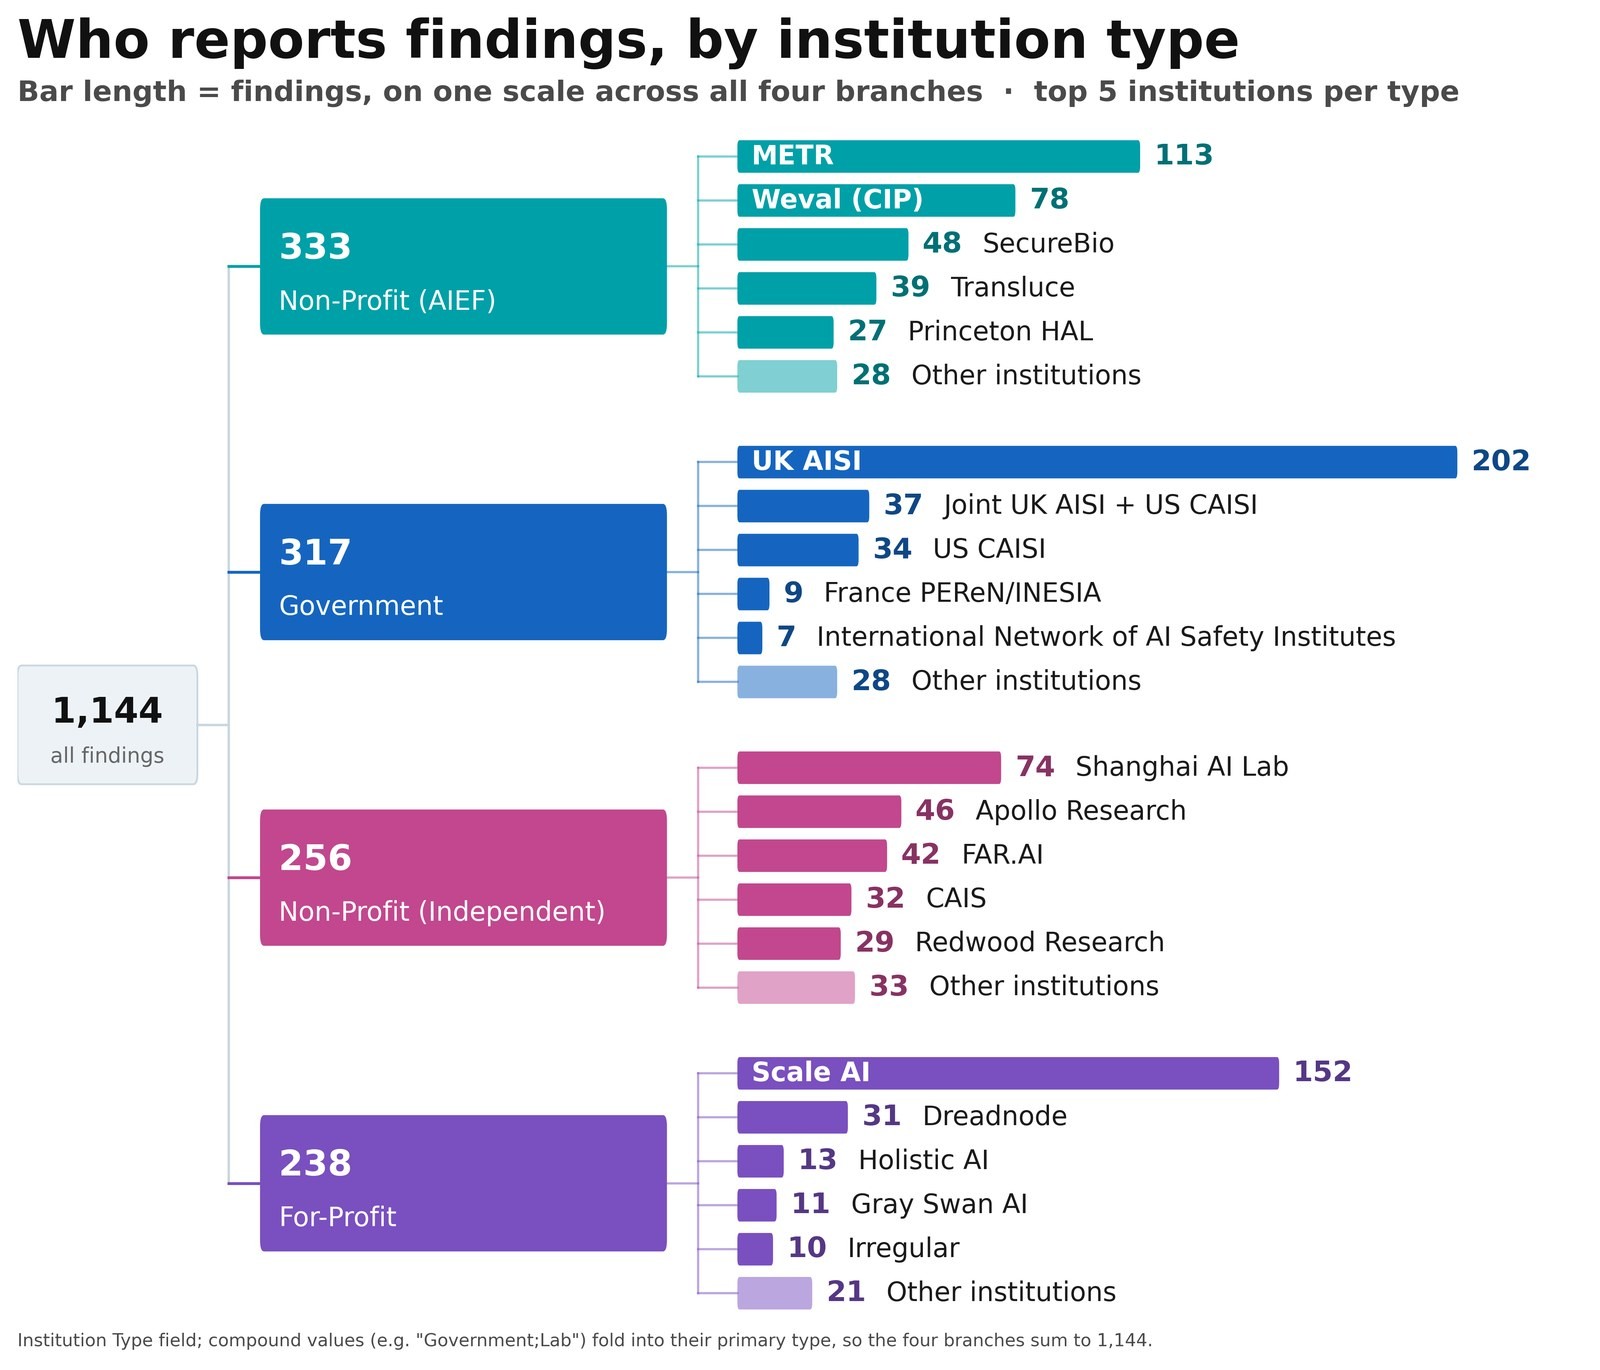
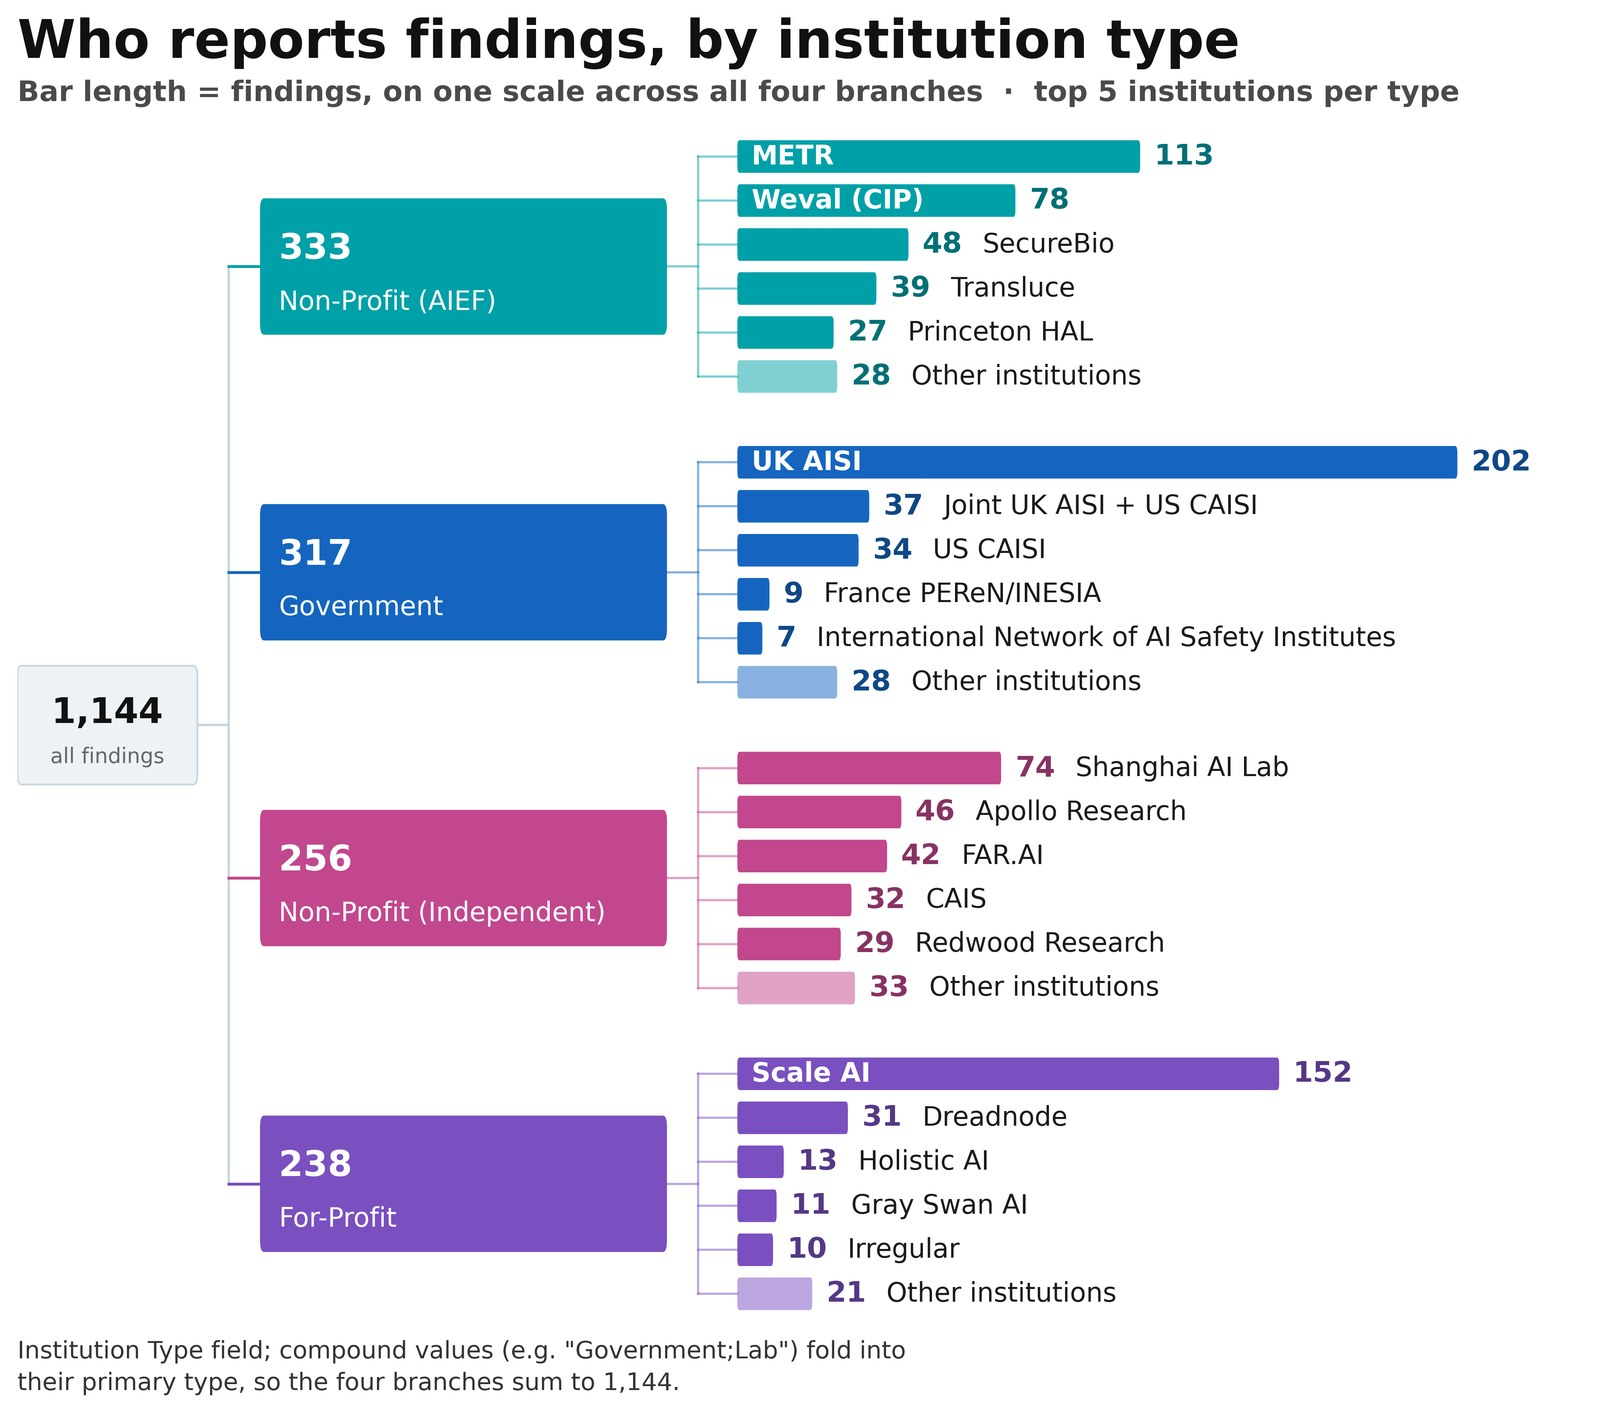
Enlarge the illegible footnote on the institution-type tree
The note under the tree was set at fontsize 16 while every other element on that
figure is 19 to 32, making it the only text below 19 on a 20-inch canvas and
unreadable once scaled to a page.

It could not simply be enlarged. The note runs about 140 characters, which at
22pt needs roughly 25 inches on one line and would overflow the canvas - which is
presumably why it was shrunk to 16 in the first place. So it is now split across
two lines at 22pt in a darker grey, and FOOT, the reserved band below the last
bar, widens from 0.85 to 1.95 row units to hold them.

Regenerated: charts/13_institution_type_tree.png, the submission copy at
charts/neurips/figA5_institutions.png, and the site JPG. Branch totals read
Non-Profit (AIEF) 333, Government 317, Non-Profit (Independent) 256, For-Profit
238, summing to 1,144. verify_charts PASS.

Changed region(s): [[0.0, 0.0307, 0.9688, 0.981], [0.0312, 0.4905, 0.125, 0.5825]]

diff --git a/research/scripts/tree.py b/research/scripts/tree.py
@@ -79,7 +79,7 @@ NLEAF = sum(len(lv) for _, _, lv in groups)
 UNIT_IN = 0.56
 GAP = 0.95                    # between the last leaf of a branch and the first of the next
 TITLE = 2.55                  # title block above the first heading
-FOOT = 0.85                   # footnote below the last bar
+FOOT = 1.95                   # footnote below the last bar — two lines at FS_FOOT, not one at 16pt
 BH = 0.74                     # bar height, in row units
 RX, RW = 0.0, 11.5            # root node
 SPINE = 13.5                  # vertical connector, root out to the branches
@@ -90,6 +90,10 @@ FS_NAME, FS_NUM = 24, 26
 FS_BIG = 32                   # the count line inside a root or branch node
 FS_BRANCH = 24                # the branch's type name — sized to read, not as a caption
 FS_SMALL = 19                 # "all findings", under the root count
+FS_FOOT = 22                  # the footnote. Was 16 — the only element on the figure below 19, and
+                              # illegible once the 20in canvas was scaled to a page. It cannot simply
+                              # be enlarged: the note is ~140 characters, which at 22pt needs about
+                              # 25in on one line, so it is split across two and FOOT widened to suit.
 FIG_W = 20.0
 WIRE_C = "#C9D6E0"
 
@@ -184,10 +188,10 @@ for (k, cnt, leaves, y0, y1), mid in zip(blocks, mids):
             ax.text(BX + w + 0.9 + text_w(str(v), FS_NUM, "bold") + 1.3, ly, nm,
                     ha="left", va="center", fontsize=FS_NAME, color="#1A1A1A")
 
-ax.text(0, total - 0.15,
-        f'Institution Type field; compound values (e.g. "Government;Lab") fold into their primary '
-        f'type, so the four branches sum to {len(R):,}.',
-        fontsize=16, color="#4A4A4A", va="baseline", ha="left")
+ax.text(0, total - FOOT + 0.55,
+        f'Institution Type field; compound values (e.g. "Government;Lab") fold into\n'
+        f'their primary type, so the four branches sum to {len(R):,}.',
+        fontsize=FS_FOOT, color="#333333", va="top", ha="left", linespacing=1.45)
 
 p = os.path.join(OUT, "13_institution_type_tree.png")
 fig.savefig(p, bbox_inches="tight", pad_inches=0.22)
